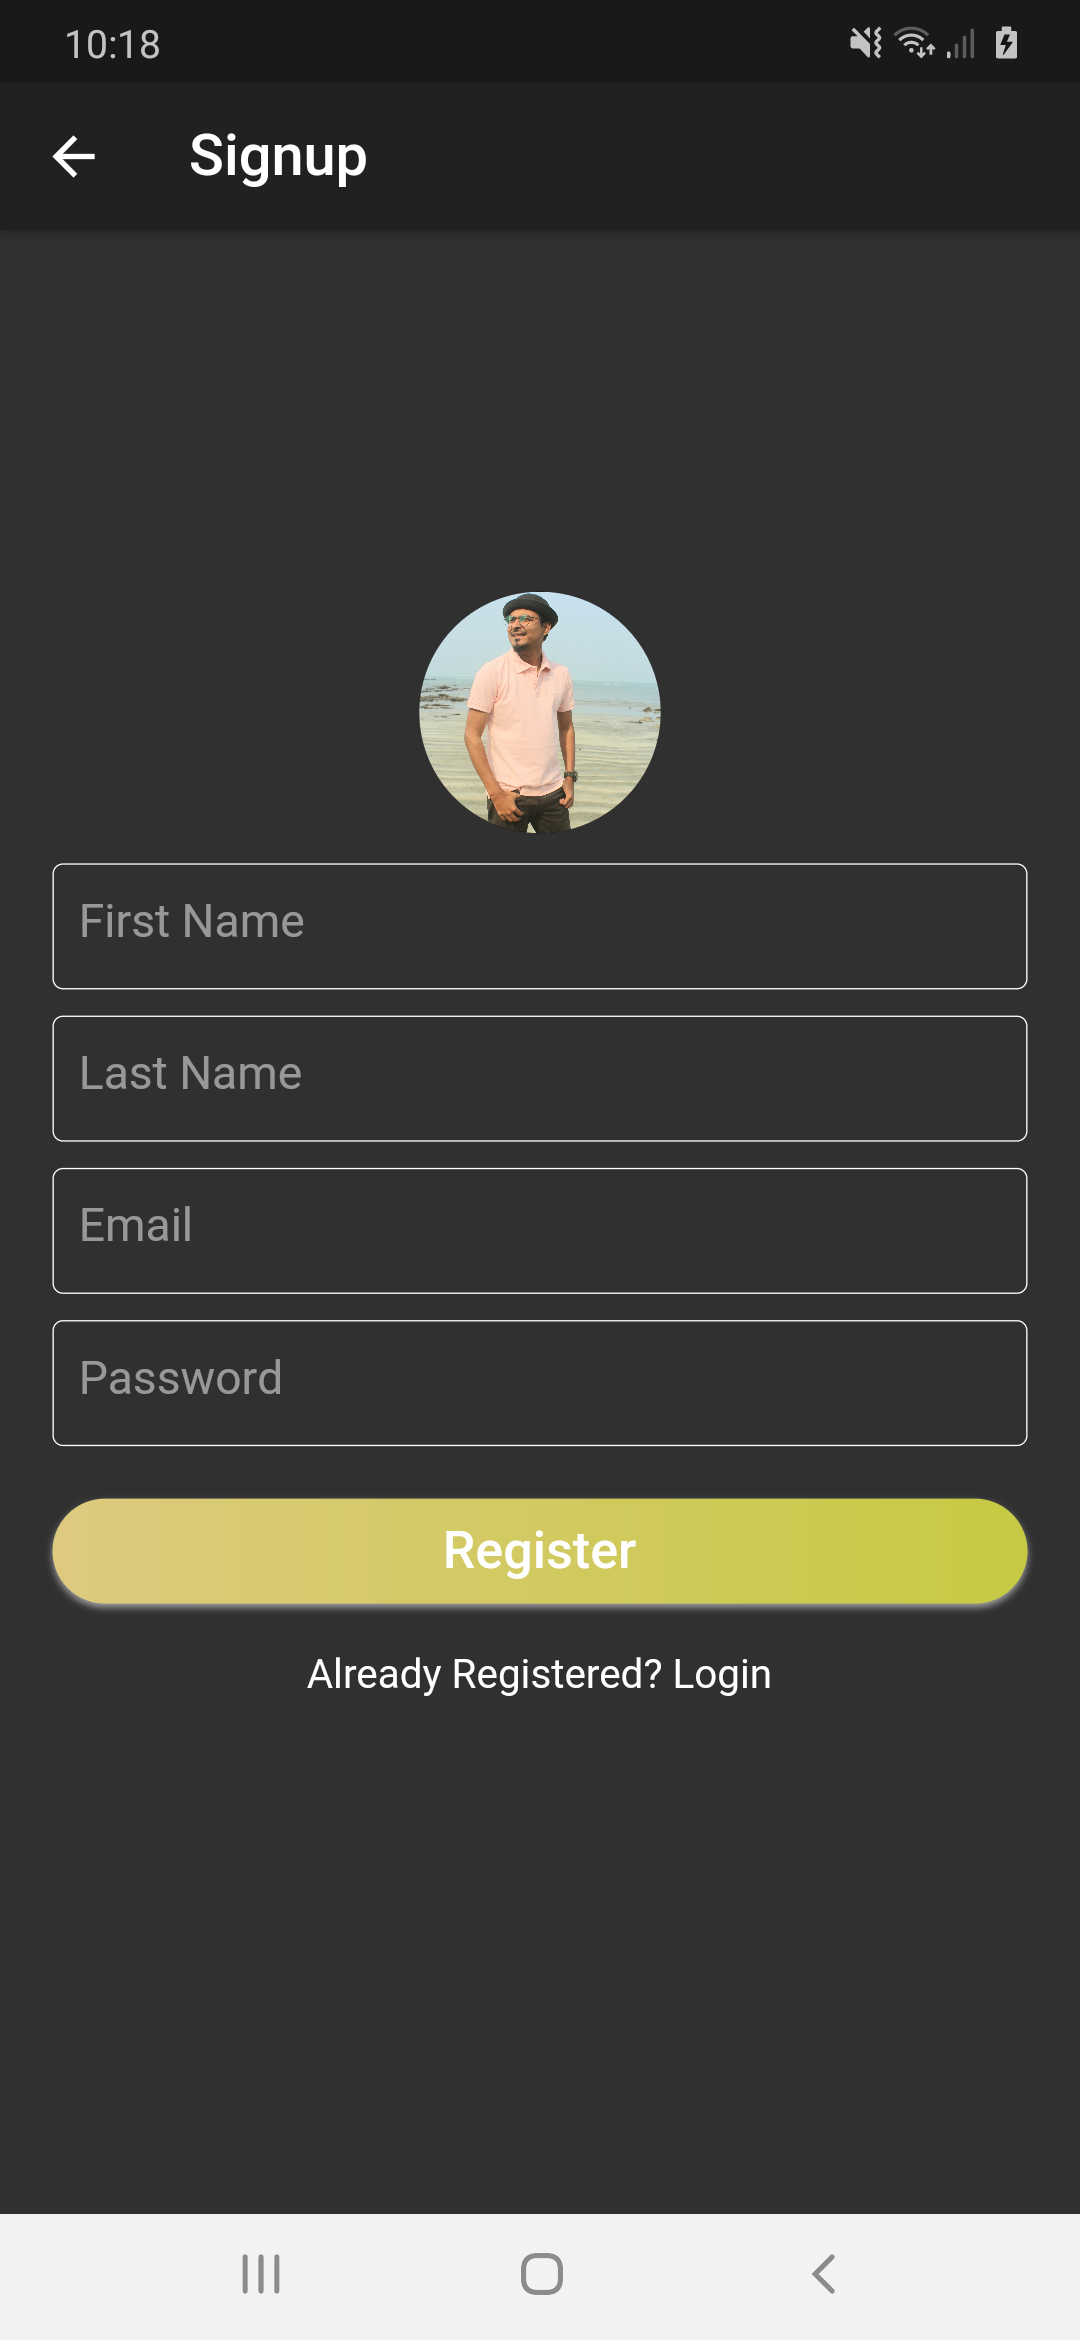
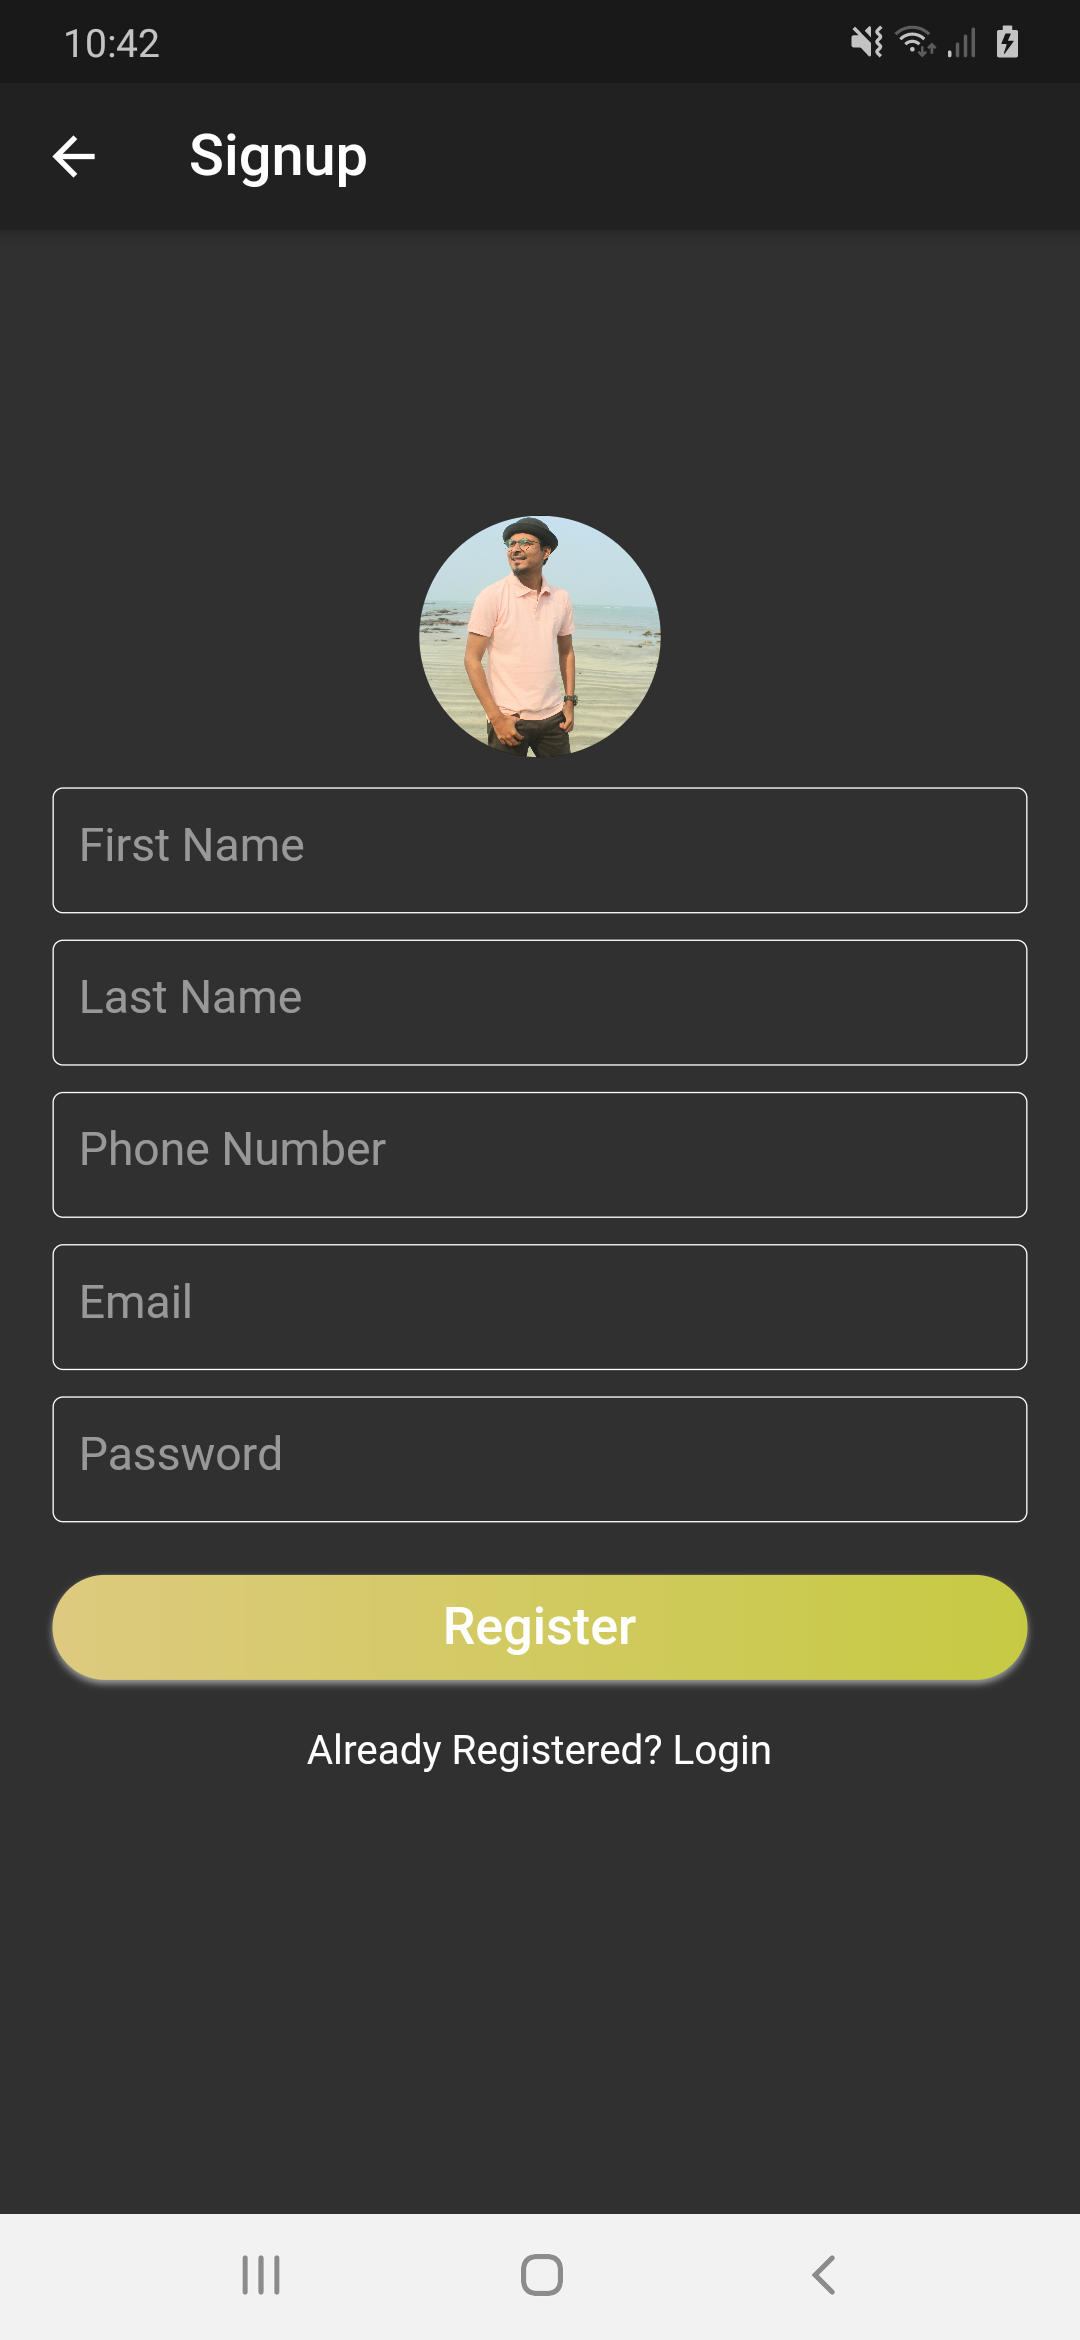
readme file updated

diff --git a/lib/screens/signup_screen.dart b/lib/screens/signup_screen.dart
@@ -24,7 +24,7 @@ class _SignupScreenState extends State<SignupScreen> {
   var _scaffoldKey = new GlobalKey<ScaffoldState>();
   final GlobalKey<FormState> _formKey = GlobalKey<FormState>();
   bool _autoValidate = false;
-  String _firstName, _lastName, _email, _password;
+  String _firstName, _lastName, _phoneNumber, _email, _password;
   SharedPreferences sharedPreferences;
   ProgressDialog _pd;
   File _image;
@@ -87,6 +87,14 @@ class _SignupScreenState extends State<SignupScreen> {
                           input.isEmpty ? Constant.REQUIRED : null,
                       onSaved: (input) => _lastName = input,
                       hint: Constant.LAST_NAME,
+                    ),
+                    SizedBox(height: Dimens.ten_dp),
+                    CustomTextField(
+                      inputType: TextInputType.number,
+                      validator: (input) =>
+                          input.isEmpty ? Constant.REQUIRED : null,
+                      onSaved: (input) => _phoneNumber = input,
+                      hint: Constant.PHONE_NUMBER,
                     ),
                     SizedBox(height: Dimens.ten_dp),
                     CustomTextField(
@@ -157,7 +165,7 @@ class _SignupScreenState extends State<SignupScreen> {
     final FormState form = _formKey.currentState;
     if (_formKey.currentState.validate()) {
       form.save();
-      saveUserInfo(_firstName, _lastName, _email, _password);
+      saveUserInfo(_firstName, _lastName, _phoneNumber,_email, _password);
       showCustomDialog("Registration Successfully Done");
     } else {
       setState(() {
@@ -167,15 +175,15 @@ class _SignupScreenState extends State<SignupScreen> {
   }
 
   Future<Widget> saveUserInfo(
-      String firstName, String lastName, String email, String password) async {
+      String firstName, String lastName, String phoneNumber, String email, String password) async {
     sharedPreferences.setString(
         SharedPreferencesKeys.KEY_FIRST_NAME, firstName);
     sharedPreferences.setString(SharedPreferencesKeys.KEY_LAST_NAME, lastName);
+    sharedPreferences.setString(SharedPreferencesKeys.KEY_PHONE_NUMBER, phoneNumber);
     sharedPreferences.setString(SharedPreferencesKeys.KEY_EMAIL, email);
     sharedPreferences.setString(SharedPreferencesKeys.password, password);
     sharedPreferences.setString(SharedPreferencesKeys.imagePath, "$_image");
   }
-
 
   void showCustomDialog(String content) {
     showDialog(
@@ -237,5 +245,4 @@ class _SignupScreenState extends State<SignupScreen> {
       _image = File(image.path);
     });
   }
-
 }

diff --git a/lib/utils/constant.dart b/lib/utils/constant.dart
@@ -17,6 +17,7 @@ class Constant {
 
   static const String FIRST_NAME="First Name";
   static const String LAST_NAME="Last Name";
+  static const String PHONE_NUMBER="Phone Number";
 
   static const String SUCCESS = "Success";
   static const String REGISTRATION_SUCCESS_CONTENT =

diff --git a/lib/utils/shared_preferences_keys.dart b/lib/utils/shared_preferences_keys.dart
@@ -9,5 +9,6 @@ class SharedPreferencesKeys {
   static final String KEY_FIRST_NAME = "first_name";
   static final String KEY_LAST_NAME = "last_name";
   static final String KEY_EMAIL = "email";
+  static final String KEY_PHONE_NUMBER= "phone_number";
 }
 

diff --git a/README.md b/README.md
@@ -19,7 +19,7 @@ https://www.youtube.com/watch?v=UgkHyTbnXjU
 
 ## Apk 
 
-https://drive.google.com/file/d/1RH37o1XyAReU9hO8W15G8n_VqhzQXihw/view?usp=sharing
+https://drive.google.com/file/d/1XXDw4y_8rsIGjx5oqJzoMO9Xh0o5lnI0/view?usp=sharing
 
 
 
